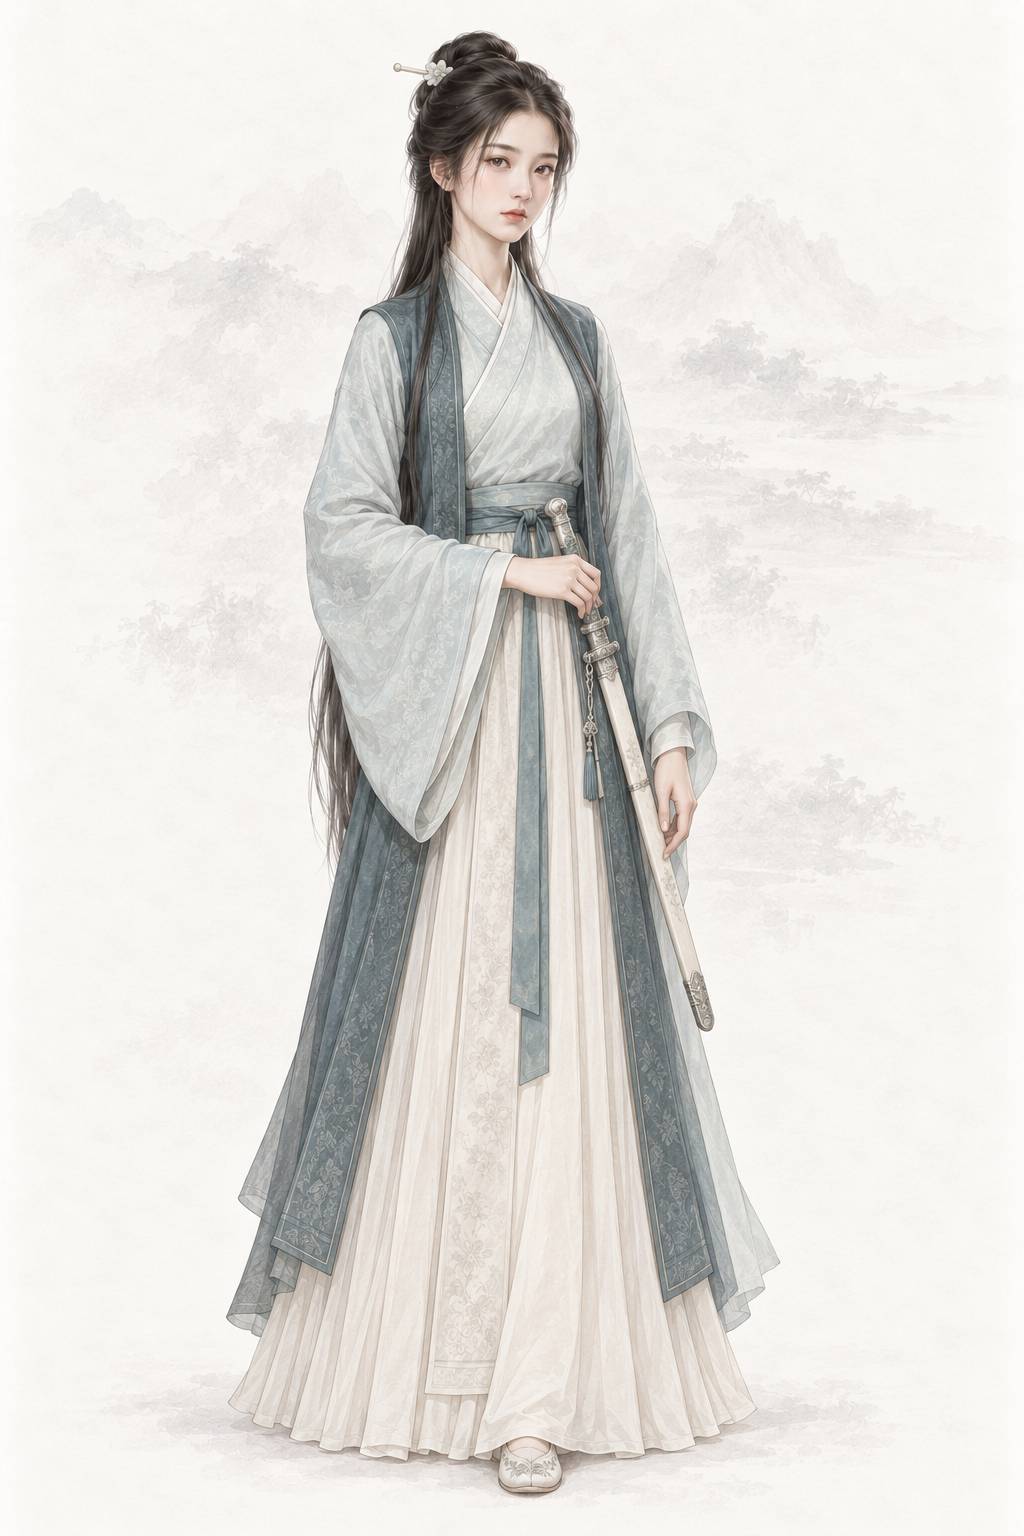
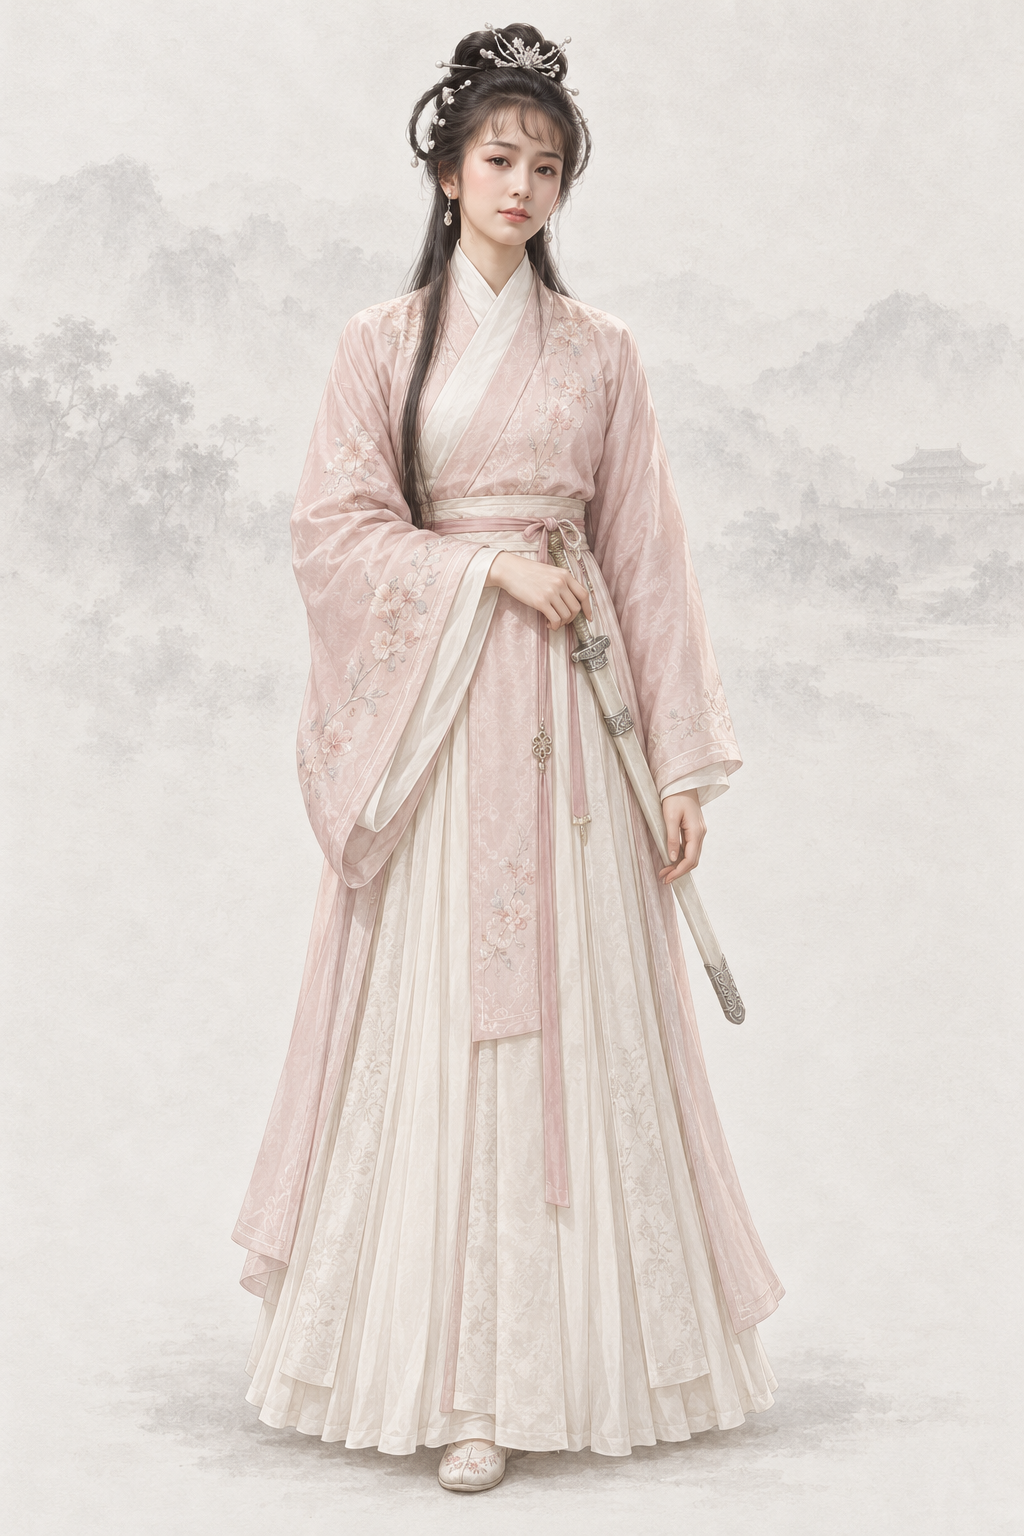
assets(character): por_npc_ajiu__ch07_youth_preinjury_base 阿九（codex · AR-32 1985 TVB《碧血剑》 剧照 + 基线）
上传顺序：第 1–2 张为 1985 TVB《碧血剑》阿九剧照（ajiu_1985_maoshunjun_sina1.jpg 裁去字幕水印；sina2.jpg 裁去旁人），最后两张为同性别基线；提示词写回、frontmatter 加 classic_ref。

diff --git a/assets/default/prompts/characters/ch07-bixue/npc_ajiu.md b/assets/default/prompts/characters/ch07-bixue/npc_ajiu.md
@@ -13,9 +13,28 @@ references:
     use: 本工作区 manifest 为 approved；仅参考纸底、光线、笔触与设色，不沿用脸、体型、服饰和道具
 status: new
 redo_reason: "长平公主阿九缺图；旧稿按十六七岁少女且误写“双手各握青竹竿”（应是程青竹的兵器），改为约二十岁成年、佩剑，并作为鹿鼎记九难的身份基准。"
-reference_upload:
-- assets/default/baseline/character/female/ref_npc_wangyuyan__ch01_base01.png
 codex_prompt_rev: 2026-10-02
+reference_upload:
+- .agents/coord/imagegen-reference/identity-20261002/bixue/ajiu_1985_maoshunjun_sina1.jpg
+- .agents/coord/imagegen-reference/identity-20261002/bixue/ajiu_1985_maoshunjun_sina2.jpg
+- assets/default/baseline/character/female/ref_npc_wangyuyan__ch01_base01.png
+- assets/default/baseline/character/female/ref_npc_xiaolongnv__ch03_base01.png
+classic_ref:
+  version: 1985 TVB《碧血剑》
+  stills:
+  - .agents/coord/imagegen-reference/identity-20261002/bixue/ajiu_1985_maoshunjun_sina1.jpg
+  - .agents/coord/imagegen-reference/identity-20261002/bixue/ajiu_1985_maoshunjun_sina2.jpg
+  crop:
+    ajiu_1985_maoshunjun_sina1.jpg:
+    - 60
+    - 0
+    - 560
+    - 365
+    ajiu_1985_maoshunjun_sina2.jpg:
+    - 285
+    - 80
+    - 523
+    - 700
 ---
 
 <!-- full-coverage-import:current-policy:v1 -->
@@ -28,6 +47,28 @@ codex_prompt_rev: 2026-10-02
 # 阿九 · 《碧血剑》（ch07）
 
 ## Gemini 提示词
+
+> 2026-10-02 AR-32 重出（8 号出图员，codex exec · image_gen）：主要角色参考经典造型加项目基线生成。上传顺序：第 1–2 张为 1985 TVB《碧血剑》阿九剧照（ajiu_1985_maoshunjun_sina1.jpg 裁去字幕水印；sina2.jpg 裁去旁人），最后两张为同性别画风基线（缩小版 JPEG）。参考图只借造型、气质与面部特征，画面按项目画风重绘、不复制照片或像素图。上一版保留在下一节作历史。
+
+```text
+生成一张 2:3 竖幅全身人物立绘：单人、单一视角、完整全身——头顶、双手、双脚和手中器物的两端都在画面内，四周留出自然空白；人物站姿自然，身体基本朝向正面，头部端正（不歪头、不仰不俯），镜头平视。
+【参考图】第 1–2 张参考图是该角色经典影视造型的剧照：借鉴其发型、服饰、配色、标志道具、气质和面部特征，让人一眼认出是这个角色；但必须重新绘制成项目画风，不要照片质感，不要照搬剧照的构图、光影、背景和姿势，也不要做成照片修图。最后两张是本项目画风基线：画风、用色、光线、质感和暖浅灰纸底加淡水墨背景以它们为准。
+【剧照借鉴要点】取剧照里的发型与头饰（乌发盘成高髻，插一排细银簪和小珠花，形如一顶小小的银冠）、粉白相间的绣花衣裙、温婉甜美的五官和含笑的神情。姿势和构图按下文的全身立绘来画，不照搬剧照。
+【画风】写实手绘古风人物插画，与本项目写实武侠角色立绘同一画风，像功力深厚的画师用细腻笔触画出的真实人物。手绘插画质感，不是 CG 渲染：不要过度光滑的皮肤、完美对称的五官、塑料高光、过度锐利的发丝；保留自然的笔触和细微不完美。皮肤有真实质感——细小毛孔、细纹、晒痕和自然的左右不对称，不磨皮、不油亮；头发是一缕缕自然的发丝和少量碎发；布料看得出经纬纹理、厚薄和自然垂坠的褶皱，带穿用过的轻微旧化，但完整不破烂；整体设色低饱和、沉稳；柔和的自然光从左上方照来，明暗过渡自然，不打舞台光、轮廓光或美颜柔光。不是照片，不是三维渲染，不是动漫或游戏 CG，也不是油画（没有厚涂笔触和画布纹理）。
+【背景】不透明的暖浅灰色纸底，只在远处有极淡的水墨远山和薄雾，大面积留白；人物与背景明暗分明、轮廓边缘干净完整（后续要自动抠图），水墨和纸纹只在背景里，不侵入人物和衣服；脚下只有很淡的一点接触阴影。
+【人物】阿九，《碧血剑》中崇祯皇帝的女儿长平公主，化名「阿九」在宫外行走；北京城破之前、尚未受伤的时期（明末崇祯年间）。
+【年龄与体态】约二十岁的成年年轻女子，身量修长纤秀，成人比例（约七头身），举止端庄。
+【经典造型】八十年代经典港剧里的阿九：高髻上插一排细银簪和小珠花，一身粉白绣花衣裙，腰悬素鞘长剑；端庄绝美、温婉含笑，眉眼间有天生的贵气和深宫的一丝忧郁。
+【面容】按剧照：柔和的鹅蛋脸；肌肤白皙如玉（有真实质感）；眉毛细长如远山；眼睛清澈明亮，眼神温柔、带着笑意和一丝忧郁；鼻梁秀挺；嘴唇小而丰润，唇色自然红润；笑起来温婉甜美。容貌极美而端庄，有皇家气度却不骄矜。
+【发式】乌黑长发盘成高髻，插一排细长的银簪和几朵小珠花，形如一顶小银冠；其余长发垂在背后；不戴凤冠。
+【服饰】明末汉族女子装束：浅粉色交领长袄（右衽，左襟压右襟），袄上绣着淡淡的花枝，白色内领；米白色马面裙；浅粉色窄腰带。领口严整，衣料是讲究的暗纹细绸，不穿宫装。
+【道具】腰间左侧佩一柄连鞘长剑（素白剑鞘），右手轻按剑柄，左手自然下垂。
+【姿态与神情】端正站立，温婉含笑。
+【不要】画面里不要任何文字、题款、印章、签名、水印、边框、分格或多视图；不要第二个人；不要幼态（童颜、娃娃脸、婴儿肥、儿童或少年身材、大头小身）；不要塑料感皮肤、磨皮美颜、网红脸（尖下巴大眼高鼻的模板脸）、过度对称、浓妆、偶像式打光、蜡像感；不要照片质感，不要像剧照照片、照片修图或拼贴，不要照搬剧照的背景、光影、构图和姿势；不要三维渲染或动漫大眼；不要歪头、斜镜头；不要多指、缺指（设定的伤残除外）、手与器物粘连或悬空；衣襟必须右衽（穿着者的左襟压在右襟上），不要左衽（设定为少数民族服制的除外），不要水平镜像；不要现代物品、发光特效、法阵或能量光。不要宫廷凤冠、霞帔与繁复珠宝；不要少女幼态；不要网红脸；不要竹竿；不要清代旗装。
+【画风基线】随提示词上传的参考图里，最后两张是本项目的立绘画风基线：只参考它们的画风、用色、光线、质感和暖浅灰纸底加淡水墨的背景处理，整体画风必须与它们一致——精细写实的数字手绘插画，不是油画，不要厚涂笔触和画布纹理。基线图只取画风，不取长相：不要照搬基线图里人物的长相、年龄、发型、服饰和姿势。
+```
+
+## AR-31 文字版 Gemini 提示词（2026-10-02 凌晨；AR-32 重出之前，历史，不再用于出图）
 
 > 2026-10-02 Codex 人物线 2 号（AR-31）：在审核组稿上补一行「经典形象」（借鉴公认经典造型的发式、装束、配色、标志道具与气质，只写文字，不写演员名、不上传剧照），并补去 AI 化要求。本轮出图用下面第一个代码块；审核组原稿保留在其后的「审核组原稿」小节作历史。
 
